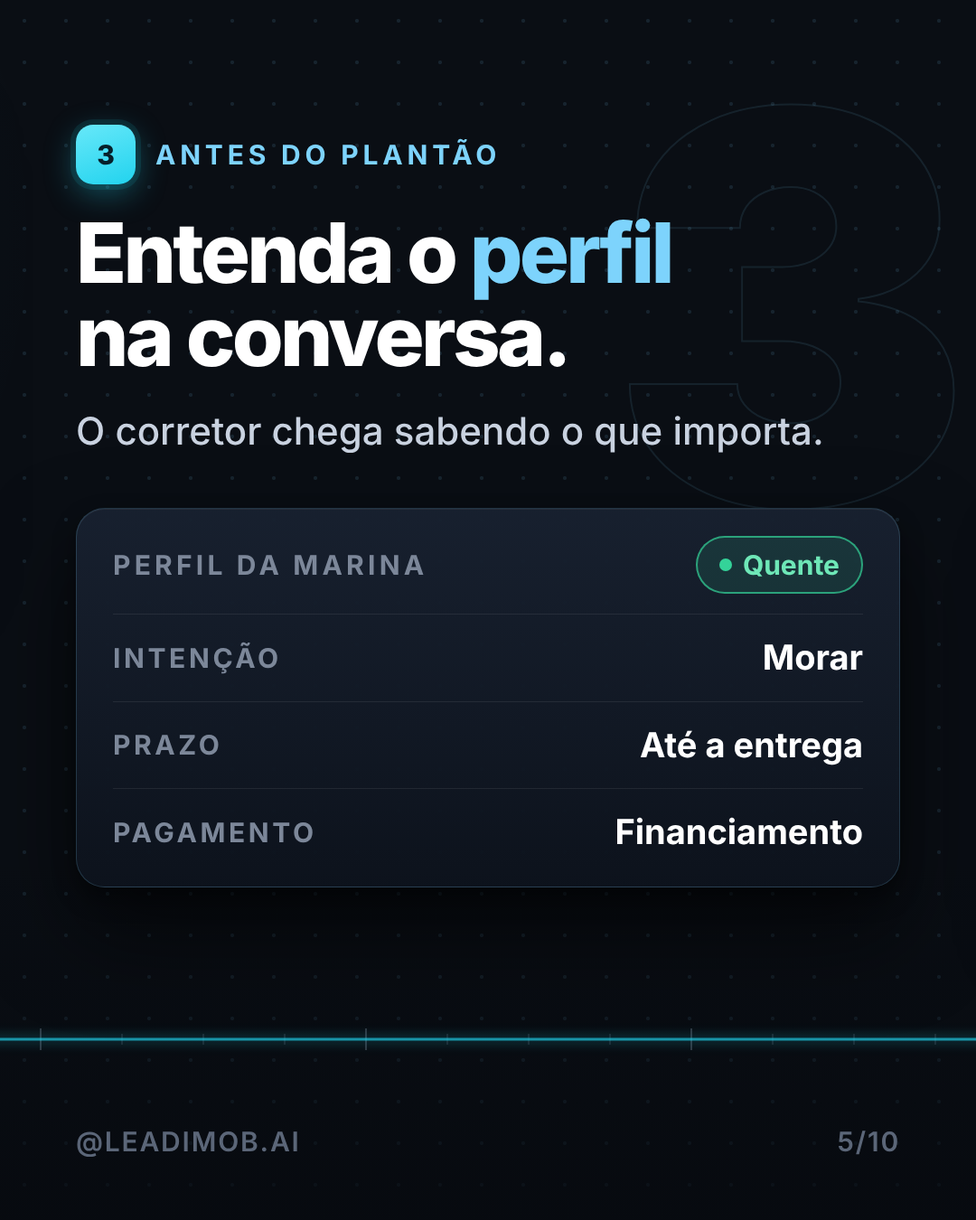
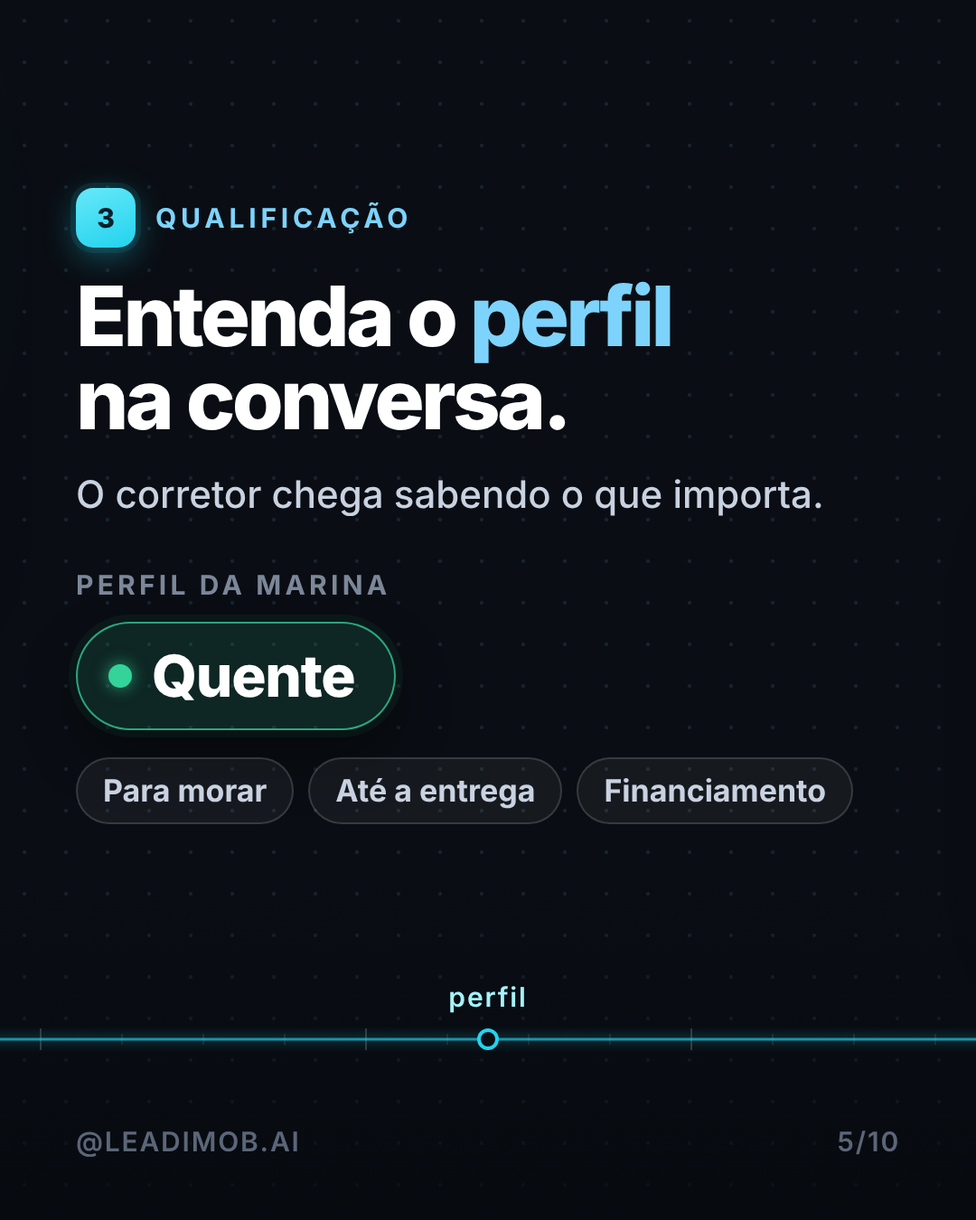
13/10: carrossel rodada 2 (em crítica, sem aprovação)
Claude-Session: https://claude.ai/code/session_01JjZ4VSMxvLW1vAoakARv9m

diff --git a/instagram/2026-10-13/src/c1-index.html b/instagram/2026-10-13/src/c1-index.html
@@ -76,6 +76,9 @@ body{background:#0A0E14;width:10800px;height:1350px;overflow:hidden;font-family:
 .lg:first-child{border-top:0}
 .lg .t{font:600 30px/1 IN;color:#6EE7B7;width:96px;flex:none}
 .tick{width:44px;height:44px;border-radius:50%;background:rgba(52,211,153,.14);border:2px solid rgba(52,211,153,.7);display:flex;align-items:center;justify-content:center;flex:none}
+.nd{position:absolute;left:-60px;top:50%;width:26px;height:26px;margin-top:-13px;border-radius:50%;background:#0A0E14;border:4px solid #22D3EE}
+.nd.g{border-color:#34D399;box-shadow:0 0 14px rgba(52,211,153,.5)}
+.ev2{position:relative;font:600 42px/1.15 IN;color:#E2E8F0;margin-bottom:26px}
 </style></head><body><div id="strip">
 <div class="bg"></div>
 <div class="glow" style="left:-420px;top:-480px;width:1600px;height:1500px;background:radial-gradient(circle,rgba(37,99,235,.30),transparent 62%)"></div>
@@ -105,7 +108,7 @@ body{background:#0A0E14;width:10800px;height:1350px;overflow:hidden;font-family:
 <!-- 2 o problema -->
 <div class="sl" style="left:1080px">
  <div class="ttl"><div class="num" style="background:linear-gradient(160deg,#3A4658,#2A3444);color:#E2E8F0;box-shadow:0 10px 30px rgba(0,0,0,.4)">!</div><div class="kick" style="color:#C9D2E0">O problema</div></div>
- <div class="h2">A pergunta da noite <span class="am">espera até amanhã.</span></div>
+ <div class="h2">A pergunta da noite espera até amanhã.</div>
  <div class="p">O anúncio roda o dia todo. O plantão tem horário.</div>
  <div class="card art" style="padding:38px 40px 40px">
   <div class="row"><div class="ico" style="background:rgba(255,255,255,.05);border-color:rgba(255,255,255,.14)"><svg width="38" height="38" viewBox="0 0 24 24" fill="none" stroke="#C9D2E0" stroke-width="2" stroke-linecap="round" stroke-linejoin="round"><path d="M4 21V9l8-5 8 5v12"/><path d="M9 21v-6h6v6"/></svg></div>
@@ -118,7 +121,6 @@ body{background:#0A0E14;width:10800px;height:1350px;overflow:hidden;font-family:
 
 <!-- 3 prática 1: origem -->
 <div class="sl" style="left:2160px">
- <div class="ghost">1</div>
  <div class="ttl"><div class="num">1</div><div class="kick">De onde ele veio</div></div>
  <div class="h2">Saiba de qual <span class="hl">lançamento</span> é o lead.</div>
  <div class="p">A resposta certa depende do anúncio.</div>
@@ -133,40 +135,51 @@ body{background:#0A0E14;width:10800px;height:1350px;overflow:hidden;font-family:
 <div class="sl" style="left:3240px">
  <div class="wa" style="padding:30px 34px">
   <div class="bub bout" style="max-width:820px;padding:12px 12px 14px;font-size:38px">
-   <div style="border-radius:16px;background:#F3F7FB;height:236px;width:796px;display:flex;align-items:center;justify-content:center">
-    <svg width="440" height="196" viewBox="0 0 560 250" fill="none" stroke="#0B5C73" stroke-width="5" stroke-linejoin="round">
-     <rect x="6" y="6" width="548" height="238" rx="4"/>
-     <path d="M190 6v120M190 166v78M360 6v96M360 142v102M190 126h-80M6 126h64M360 102h194"/>
-     <path d="M110 126a40 40 0 0 1 40-40" stroke-width="3" opacity=".6"/><path d="M360 102a40 40 0 0 0 40 40" stroke-width="3" opacity=".6"/>
-     <rect x="410" y="170" width="110" height="50" rx="6" stroke-width="3" opacity=".5"/><rect x="36" y="30" width="110" height="70" rx="6" stroke-width="3" opacity=".5"/><rect x="36" y="150" width="110" height="70" rx="6" stroke-width="3" opacity=".5"/>
+   <div style="border-radius:16px;background:#ECF6F9;width:796px;padding:18px 18px 14px;display:flex;justify-content:center">
+    <svg width="760" height="250" viewBox="0 0 760 250" fill="none" stroke-linecap="square">
+     <g stroke="#0B5C73" stroke-width="10">
+      <path d="M5 5H755V245H5Z"/>
+      <path d="M270 5V45M270 95V150M270 200V245"/>
+      <path d="M5 125H270"/>
+      <path d="M560 5V75M560 125V160M560 210V245"/>
+      <path d="M560 160H755"/>
+     </g>
+     <g stroke="#0B5C73" stroke-width="3" opacity=".75">
+      <path d="M270 45A50 50 0 0 0 220 95"/><path d="M270 150A50 50 0 0 0 220 200"/>
+      <path d="M560 75A50 50 0 0 1 610 125"/><path d="M560 160A50 50 0 0 1 610 210"/>
+     </g>
+     <g stroke="#ECF6F9" stroke-width="6"><path d="M60 5H200M60 245H200M340 245H490M340 5H490M620 5H710"/></g>
+     <g stroke="#0B5C73" stroke-width="2.5"><path d="M60 1H200M60 9H200M60 241H200M60 249H200M340 241H490M340 249H490M340 1H490M340 9H490M620 1H710M620 9H710"/></g>
+     <g fill="#0B5C73" font-family="IN" font-weight="600" font-size="30" text-anchor="middle" stroke="none">
+      <text x="137" y="76">Quarto</text><text x="137" y="196">Quarto</text><text x="415" y="136">Sala</text><text x="672" y="58">Cozinha</text><text x="660" y="214">WC</text>
+     </g>
     </svg>
    </div>
-   <div style="padding:16px 14px 0">Esta é a planta da unidade de 2 quartos. <span style="font-weight:600;color:#fff">Quer conhecer o decorado?</span></div>
-   <div class="bt" style="padding-right:14px;font-size:30px">22:41 <svg class="tk" viewBox="0 0 34 22"><path d="M2 12l6 6L20 4M14 18l12-14" stroke="#53BDEB" stroke-width="3" fill="none" stroke-linecap="round" stroke-linejoin="round"/></svg></div>
+   <div style="padding:16px 14px 0;font-size:35px;white-space:nowrap">Planta do 2 quartos. <span style="font-weight:600;color:#fff">Quer ver o decorado?</span></div>
+   <div class="bt" style="padding-right:14px;font-size:30px"><svg class="tk" viewBox="0 0 34 22"><path d="M2 12l6 6L20 4M14 18l12-14" stroke="#53BDEB" stroke-width="3" fill="none" stroke-linecap="round" stroke-linejoin="round"/></svg></div>
   </div>
  </div>
- <div class="ttl" style="margin-top:56px"><div class="num">2</div><div class="kick">Fora do horário</div></div>
+ <div class="ttl" style="margin-top:50px"><div class="num">2</div><div class="kick">Fora do horário</div></div>
  <div class="h2">Responda com a <span class="hl">planta do catálogo</span>.</div>
  <div class="p">Informação real, na hora da dúvida.</div>
  <div class="foot"><span>@LEADIMOB.AI</span><span>4/10</span></div></div>
 
 <!-- 5 prática 3: qualificação -->
 <div class="sl" style="left:4320px">
- <div class="ghost">3</div>
- <div class="ttl"><div class="num">3</div><div class="kick">Antes do plantão</div></div>
+ <div class="ttl"><div class="num">3</div><div class="kick">Qualificação</div></div>
  <div class="h2">Entenda o <span class="hl">perfil</span> na conversa.</div>
  <div class="p">O corretor chega sabendo o que importa.</div>
- <div class="card art" style="padding:30px 40px 12px">
-  <div style="display:flex;align-items:center;justify-content:space-between;margin-bottom:22px"><div class="lab">Perfil da Marina</div><span class="chip gr"><i style="width:14px;height:14px;border-radius:50%;background:#34D399;display:block"></i>Quente</span></div>
-  <div class="kv"><span class="k">Intenção</span><b>Morar</b></div>
-  <div class="kv"><span class="k">Prazo</span><b>Até a entrega</b></div>
-  <div class="kv"><span class="k">Pagamento</span><b>Financiamento</b></div>
+ <div class="art">
+  <div class="lab" style="margin-bottom:26px">Perfil da Marina</div>
+  <div style="display:inline-flex;align-items:center;gap:22px;padding:26px 44px 26px 34px;border-radius:999px;background:rgba(52,211,153,.12);border:2px solid rgba(52,211,153,.75);box-shadow:0 0 0 8px rgba(52,211,153,.06),0 30px 60px rgba(0,0,0,.45)"><i style="width:26px;height:26px;border-radius:50%;background:#34D399;display:block;box-shadow:0 0 18px rgba(52,211,153,.7)"></i><span style="font:800 64px/1 IN;letter-spacing:-.02em;color:#fff">Quente</span></div>
+  <div style="display:flex;flex-wrap:wrap;gap:16px;margin-top:30px">
+   <span class="chip nt" style="font-size:34px;padding:18px 28px">Para morar</span><span class="chip nt" style="font-size:34px;padding:18px 28px">Até a entrega</span><span class="chip nt" style="font-size:34px;padding:18px 28px">Financiamento</span>
+  </div>
  </div>
  <div class="foot"><span>@LEADIMOB.AI</span><span>5/10</span></div></div>
 
 <!-- 6 prática 4: agenda do plantão -->
 <div class="sl" style="left:5400px">
- <div class="ghost">4</div>
  <div class="ttl"><div class="num">4</div><div class="kick">Visita no plantão</div></div>
  <div class="h2">Ofereça o horário <span class="hl">na mesma conversa</span>.</div>
  <div class="p">Quem escolhe o horário já se comprometeu.</div>
@@ -193,74 +206,84 @@ body{background:#0A0E14;width:10800px;height:1350px;overflow:hidden;font-family:
  <div class="p">Ninguém pergunta tudo de novo.</div>
  <div class="foot"><span>@LEADIMOB.AI</span><span>7/10</span></div></div>
 
-<!-- 8 prática 6: funil por empreendimento + quem não veio -->
+<!-- 8 prática 6: quem não veio volta para o funil -->
 <div class="sl" style="left:7560px">
- <div class="ghost">6</div>
  <div class="ttl"><div class="num">6</div><div class="kick">Funil do lançamento</div></div>
  <div class="h2">Quem não veio <span class="hl">volta para o funil</span>.</div>
- <div class="p">Separe por empreendimento e retome cada um.</div>
- <div class="art" style="display:flex;gap:16px;align-items:center;margin-bottom:22px"><span class="lab">Empreendimento</span><span class="chip cy">Vista Parque</span></div>
+ <div class="p">Mova para o follow-up e ofereça uma nova data.</div>
+ <div class="art"><div class="lab" style="margin-bottom:22px">Outro lead do Vista Parque</div>
  <div style="display:flex;gap:22px;align-items:stretch">
-  <div class="col"><h4>Visita</h4><div class="kc" style="opacity:.75"><b>Lucas</b><span>Não veio no sábado</span></div></div>
+  <div class="col"><h4>Visita</h4><div class="kc" style="opacity:.8"><b>Lucas</b><span style="font-size:32px">Não veio no sábado</span></div></div>
   <div style="align-self:center;flex:none"><svg width="44" height="44" viewBox="0 0 24 24"><path d="M5 12h13M13 6l6 6-6 6" stroke="#6EE7B7" stroke-width="2.6" fill="none" stroke-linecap="round" stroke-linejoin="round"/></svg></div>
-  <div class="col" style="border-color:rgba(52,211,153,.35)"><h4 style="color:#6EE7B7">Follow-up</h4><div class="kc" style="border-color:rgba(52,211,153,.5)"><b>Lucas</b><span>Nova data enviada</span></div></div>
- </div>
+  <div class="col" style="border-color:rgba(52,211,153,.35)"><h4 style="color:#6EE7B7">Follow-up</h4><div class="kc" style="border-color:rgba(52,211,153,.5)"><b>Lucas</b><span style="font-size:32px">Nova data enviada</span></div></div>
+ </div></div>
  <div class="foot"><span>@LEADIMOB.AI</span><span>8/10</span></div></div>
 
-<!-- 9 Leadimob -->
+<!-- 9 Leadimob: a noite atendida -->
 <div class="sl" style="left:8640px">
- <div class="ttl"><div class="num"><svg width="34" height="34" viewBox="0 0 24 24"><path d="M12 3c5 0 9 3.600 9 8.200S17 19.500 12 19.500c-1 0-2-.15-2.900-.42L4.500 21l1.200-3.900C4 15.600 3 13.500 3 11.200 3 6.600 7 3 12 3z" fill="#06202A"/></svg></div><div class="kick">Onde a Leadimob entra</div></div>
+ <div class="ttl"><div class="num"><svg width="34" height="34" viewBox="0 0 24 24"><path d="M12 3c5 0 9 3.600 9 8.200S17 19.500 12 19.500c-1 0-2-.15-2.900-.42L4.500 21l1.200-3.900C4 15.600 3 13.500 3 11.200 3 6.600 7 3 12 3z" fill="#06202A"/></svg></div><div class="kick">A noite com a Leadimob</div></div>
  <div class="h2">A Leadimob atende <span style="color:#6EE7B7">quando o plantão fecha</span>.</div>
- <div class="p">E chama o corretor com o resumo pronto.</div>
- <div class="card art" style="padding:16px 40px">
-  <div class="lg"><span class="t">22:41</span>Responde com o catálogo</div>
-  <div class="lg"><span class="t">22:44</span>Qualifica o perfil</div>
-  <div class="lg"><span class="t">22:46</span>Agenda a visita</div>
-  <div class="lg"><span class="t">08:50</span>Avisa o corretor</div>
+ <div class="art" style="position:relative;padding-left:70px">
+  <div style="position:absolute;left:21px;top:20px;bottom:24px;width:3px;border-radius:2px;background:linear-gradient(180deg,rgba(34,211,238,.75),rgba(52,211,153,.85))"></div>
+  <div class="nt-row" style="position:relative;font:700 30px/1 IN;letter-spacing:.14em;color:#7C8799;margin-bottom:26px"><i class="nd" style="border-color:#22D3EE"></i>22:40 · NA MESMA NOITE</div>
+  <div class="ev2"><i class="nd"></i>Responde com o catálogo</div>
+  <div class="ev2"><i class="nd"></i>Qualifica o perfil</div>
+  <div class="ev2"><i class="nd"></i>Agenda a visita no plantão</div>
+  <div class="nt-row" style="position:relative;font:700 30px/1 IN;letter-spacing:.14em;color:#7C8799;margin:34px 0 26px"><i class="nd" style="border-color:#34D399"></i>08:50</div>
+  <div class="ev2" style="margin-bottom:0"><i class="nd g"></i>Chama o corretor com o resumo</div>
  </div>
  <div class="foot"><span>@LEADIMOB.AI</span><span>9/10</span></div></div>
 
-<!-- 10 CTA -->
+<!-- 10 CTA: a noite resolvida -->
 <div class="sl" style="left:9720px">
  <div class="ttl"><div class="num"><svg width="32" height="32" viewBox="0 0 24 24"><path d="M5 12.500l4.500 4.500L19 7" stroke="#06202A" stroke-width="3" fill="none" stroke-linecap="round" stroke-linejoin="round"/></svg></div><div class="kick">Sua vez</div></div>
- <div class="h2">Quem responde o seu lançamento <span class="hl">à noite?</span></div>
- <div style="margin-top:58px;height:132px;border-radius:66px;background:#141B28;border:2px solid rgba(125,211,252,.45);box-shadow:0 0 0 8px rgba(34,211,238,.06),0 30px 70px rgba(0,0,0,.55);display:flex;align-items:center;padding:0 22px 0 40px;gap:16px;font:600 44px IN">
-  <span style="color:#7C8799">Comente</span><span style="font-weight:900;letter-spacing:.02em">LANÇAMENTO</span><span style="width:4px;height:52px;background:#22D3EE;border-radius:2px"></span>
-  <span style="margin-left:auto;width:92px;height:92px;border-radius:50%;background:#2563EB;display:flex;align-items:center;justify-content:center;box-shadow:0 10px 30px rgba(37,99,235,.55)"><svg width="42" height="42" viewBox="0 0 24 24"><path d="M3 12 L21 3 L14 21 L11 13 Z" fill="#fff"/></svg></span>
+ <div class="h2">Quem atende o seu lançamento <span class="hl">à noite?</span></div>
+ <div class="art" style="position:relative;height:250px;margin-top:76px">
+  <div style="position:absolute;left:0;top:0;display:flex;align-items:center;gap:10px;font:600 30px/1 IN;letter-spacing:.06em;color:#C9D2E0"><svg width="28" height="28" viewBox="0 0 24 24" fill="none" stroke="#C9D2E0" stroke-width="2.200" stroke-linecap="round" stroke-linejoin="round"><path d="M20 14.500A8 8 0 1 1 9.500 4a6.500 6.500 0 0 0 10.500 10.500z"/></svg>18:00</div>
+  <div style="position:absolute;right:0;top:0;display:flex;align-items:center;gap:10px;font:600 30px/1 IN;letter-spacing:.06em;color:#E2E8F0"><svg width="28" height="28" viewBox="0 0 24 24" fill="none" stroke="#E2E8F0" stroke-width="2.200" stroke-linecap="round"><circle cx="12" cy="12" r="4"/><path d="M12 2v2M12 20v2M4.900 4.900l1.400 1.400M17.700 17.700l1.400 1.400M2 12h2M20 12h2M4.900 19.100l1.400-1.400M17.700 6.300l1.400-1.400"/></svg>09:00</div>
+  <div style="position:absolute;left:0;right:0;top:125px;height:3px;background:linear-gradient(90deg,#22D3EE,#34D399);border-radius:2px;box-shadow:0 0 14px rgba(52,211,153,.35)"></div>
+  <i style="position:absolute;left:-2px;top:115px;width:22px;height:22px;border-radius:50%;background:#0A0E14;border:4px solid #22D3EE"></i>
+  <i style="position:absolute;right:-2px;top:115px;width:22px;height:22px;border-radius:50%;background:#0A0E14;border:4px solid #34D399"></i>
+  <div style="position:absolute;left:70px;right:70px;top:60px;height:132px;border-radius:66px;background:#141B28;border:2px solid rgba(125,211,252,.45);box-shadow:0 0 0 10px #0A0E14,0 30px 70px rgba(0,0,0,.55);display:flex;align-items:center;padding:0 22px 0 40px;gap:16px;font:600 44px IN">
+   <span style="color:#7C8799">Comente</span><span style="font-weight:900;letter-spacing:.02em">LANÇAMENTO</span><span style="width:4px;height:52px;background:#22D3EE;border-radius:2px"></span>
+   <span style="margin-left:auto;width:92px;height:92px;border-radius:50%;background:#2563EB;display:flex;align-items:center;justify-content:center;box-shadow:0 10px 30px rgba(37,99,235,.55)"><svg width="42" height="42" viewBox="0 0 24 24"><path d="M3 12 L21 3 L14 21 L11 13 Z" fill="#fff"/></svg></span>
+  </div>
  </div>
- <div class="p" style="margin-top:34px">e conte como o seu time faz hoje.</div>
- <div style="margin-top:58px;display:flex;align-items:center;gap:26px">
+ <div class="p" style="margin-top:10px">e conte como o seu time faz hoje.</div>
+ <div style="margin-top:56px;display:flex;align-items:center;gap:26px">
   <div style="width:300px;height:96px;border-radius:22px;background:#F3F7FB;display:flex;align-items:center;justify-content:center;box-shadow:0 20px 44px rgba(0,0,0,.5);flex:none"><img src="logo.png" style="width:240px"></div>
   <div style="font:600 30px/1.3 IN;color:#7DD3FC">Solicite uma demonstração<br>link na bio</div>
  </div>
  <div class="foot"><span>@LEADIMOB.AI</span><span>10/10</span></div></div>
 </div>
 <script>
-// Régua da noite do plantão: uma linha do tempo fina atravessa o carrossel, das 18h (plantão fecha) às 9h (plantão abre).
-// Dia = faixa clara do plantão; noite = traço fino; tracejado âmbar só no slide 2 (sem resposta); ciano quando a noite passa a ser atendida; verde na Leadimob.
+// Régua da noite do plantão: das 18h (plantão fecha) às 9h (plantão abre), atravessando o carrossel.
+// Faixa clara = plantão aberto; tracejado = noite sem resposta (ponto âmbar no slide 2); degradê para ciano a partir do 22:40;
+// ciano = a noite atendida, com um marcador (ponto + rótulo curto) por prática; verde na Leadimob; ponto final no 10.
 (function(){
  const Y=1150, S=document.getElementById('ruler'), M=document.getElementById('marks'), ns='http://www.w3.org/2000/svg';
  const el=(t,a)=>{const e=document.createElementNS(ns,t);for(const k in a)e.setAttribute(k,a[k]);S.appendChild(e);return e};
  S.innerHTML='<defs><linearGradient id="gS" x1="0" x2="760" gradientUnits="userSpaceOnUse"><stop offset="0" stop-color="#E2E8F0" stop-opacity="0"/><stop offset=".4" stop-color="#E2E8F0" stop-opacity=".45"/><stop offset="1" stop-color="#E2E8F0" stop-opacity=".45"/></linearGradient>'+
- '<linearGradient id="gE" x1="8100" x2="10800" gradientUnits="userSpaceOnUse"><stop offset="0" stop-color="#22D3EE" stop-opacity=".7"/><stop offset=".25" stop-color="#34D399" stop-opacity=".75"/><stop offset=".85" stop-color="#34D399" stop-opacity=".3"/><stop offset="1" stop-color="#34D399" stop-opacity="0"/></linearGradient></defs>';
- // ticks de hora, discretos
- for(let x=45;x<10800;x+=90){const big=(x-45)%360===0;el('line',{x1:x,x2:x,y1:Y-(big?12:6),y2:Y+(big?12:6),stroke:'#7C8799','stroke-opacity':big?.35:.18,'stroke-width':2})}
- // capa: faixa do plantão aberto até 18h
+ '<linearGradient id="gT" x1="1620" x2="2300" gradientUnits="userSpaceOnUse"><stop offset="0" stop-color="#5B6678" stop-opacity=".9"/><stop offset="1" stop-color="#22D3EE" stop-opacity=".65"/></linearGradient>'+
+ '<linearGradient id="gT2" x1="1620" x2="2300" gradientUnits="userSpaceOnUse"><stop offset="0" stop-color="#22D3EE" stop-opacity="0"/><stop offset="1" stop-color="#22D3EE" stop-opacity=".16"/></linearGradient>'+
+ '<linearGradient id="gE" x1="8100" x2="9000" gradientUnits="userSpaceOnUse"><stop offset="0" stop-color="#22D3EE" stop-opacity=".65"/><stop offset="1" stop-color="#34D399" stop-opacity=".7"/></linearGradient></defs>';
+ for(let x=45;x<10260;x+=90){const big=(x-45)%360===0;el('line',{x1:x,x2:x,y1:Y-(big?12:6),y2:Y+(big?12:6),stroke:'#7C8799','stroke-opacity':big?.35:.18,'stroke-width':2})}
  el('rect',{x:0,y:Y-4,width:760,height:8,rx:4,fill:'url(#gS)'});
- // capa→slide 2: noite sem resposta (tracejado)
- el('path',{d:`M 760 ${Y} L 2160 ${Y}`,stroke:'#5B6678','stroke-width':3,'stroke-dasharray':'2 16','stroke-linecap':'round',fill:'none'});
- // slides 3-8: a noite atendida (ciano fino)
- el('path',{d:`M 2160 ${Y} L 8100 ${Y}`,stroke:'#22D3EE','stroke-opacity':.65,'stroke-width':3,fill:'none'});
- el('path',{d:`M 2160 ${Y} L 8100 ${Y}`,stroke:'#22D3EE','stroke-opacity':.16,'stroke-width':12,fill:'none',filter:'blur(6px)'});
- // slide 7: plantão abre às 9h, a faixa clara volta por cima
- el('rect',{x:7020,y:Y-4,width:3780,height:8,rx:4,fill:'#E2E8F0','fill-opacity':.28});
- el('path',{d:`M 8100 ${Y} L 10800 ${Y}`,stroke:'url(#gE)','stroke-width':3,fill:'none'});
- const dot=(x,c)=>el('circle',{cx:x,cy:Y,r:11,fill:'#0A0E14',stroke:c,'stroke-width':4});
- dot(760,'#C9D2E0'); dot(1620,'#F59E0B'); dot(7020,'#C9D2E0');
+ el('path',{d:`M 760 ${Y} L 1620 ${Y}`,stroke:'#5B6678','stroke-width':3,'stroke-dasharray':'2 16','stroke-linecap':'round',fill:'none'});
+ el('path',{d:`M 1620 ${Y} L 2300 ${Y}`,stroke:'url(#gT)','stroke-width':3,fill:'none'});
+ el('path',{d:`M 1620 ${Y} L 2300 ${Y}`,stroke:'url(#gT2)','stroke-width':12,fill:'none',filter:'blur(6px)'});
+ el('path',{d:`M 2300 ${Y} L 8100 ${Y}`,stroke:'#22D3EE','stroke-opacity':.65,'stroke-width':3,fill:'none'});
+ el('path',{d:`M 2300 ${Y} L 8100 ${Y}`,stroke:'#22D3EE','stroke-opacity':.16,'stroke-width':12,fill:'none',filter:'blur(6px)'});
+ el('path',{d:`M 8100 ${Y} L 10260 ${Y}`,stroke:'url(#gE)','stroke-width':3,fill:'none'});
+ const dot=(x,c,r)=>el('circle',{cx:x,cy:Y,r:r||10,fill:'#0A0E14',stroke:c,'stroke-width':4});
  const lab=(x,txt,c,ic)=>M.insertAdjacentHTML('beforeend',`<div style="position:absolute;left:${x}px;top:${Y-62}px;transform:translateX(-50%);display:flex;align-items:center;gap:10px;font:600 30px/1 IN;letter-spacing:.06em;color:${c};white-space:nowrap">${ic||''}${txt}</div>`);
  const moon='<svg width="28" height="28" viewBox="0 0 24 24" fill="none" stroke="#C9D2E0" stroke-width="2.2" stroke-linecap="round" stroke-linejoin="round"><path d="M20 14.500A8 8 0 1 1 9.500 4a6.500 6.500 0 0 0 10.500 10.500z"/></svg>';
- const sun='<svg width="28" height="28" viewBox="0 0 24 24" fill="none" stroke="#E2E8F0" stroke-width="2.2" stroke-linecap="round"><circle cx="12" cy="12" r="4"/><path d="M12 2v2M12 20v2M4.900 4.900l1.400 1.400M17.700 17.700l1.400 1.400M2 12h2M20 12h2M4.900 19.100l1.400-1.400M17.700 6.300l1.400-1.400"/></svg>';
- lab(760,'18:00','#C9D2E0',moon); lab(1620,'22:40','#FBBF24'); lab(7020,'09:00','#E2E8F0',sun);
+ dot(760,'#C9D2E0'); lab(760,'18:00','#C9D2E0',moon);
+ dot(1620,'#F59E0B',9);
+ const C='#A5F3FC', mk=[[2,'22:40 · lead novo'],[3,'planta enviada'],[4,'perfil'],[5,'visita marcada'],[6,'08:50 · corretor avisado']];
+ mk.forEach(([i,t])=>{const x=i*1080+540;dot(x,'#22D3EE');lab(x,t,C)});
+ dot(7*1080+540,'#34D399'); dot(8*1080+540,'#34D399');
+ el('circle',{cx:10260,cy:Y,r:13,fill:'#34D399'});
 })();
 window.ready=document.fonts.ready.then(()=>Promise.all(['400 20px IN','500 20px IN','600 20px IN','700 20px IN','800 20px IN','900 20px IN'].map(f=>document.fonts.load(f)))).then(()=>Promise.all([...document.images].map(i=>i.decode().catch(()=>0)))).then(()=>new Promise(r=>setTimeout(r,300)));
 </script></body></html>

diff --git a/instagram/2026-10-13/carrossel/carrossel-editor.html b/instagram/2026-10-13/carrossel/carrossel-editor.html
@@ -312,7 +312,7 @@ input[type=range]{width:100%;accent-color:#6C5CE7;height:18px;cursor:pointer;}
     </div>
   </div>
 </div>
-<script id="deck-data" type="application/json">{"kit": "tech", "formato": "4:5", "paleta": {"bg": "#0A0E14", "fg": "#FFFFFF", "muted": "#8A93A3", "accent": "#22D3EE", "surface": "#141B28", "cream": "#F3F7FB"}, "handle": "@leadimob.ai", "slides": [{"tipo": "capa", "kicker": "LANÇAMENTO · SALVE ESTE POST", "titulo": "O plantão fecha. O anúncio, não.", "sub": "Como não perder o lead do lançamento que chega à noite."}, {"tipo": "conteudo", "kicker": "O PROBLEMA", "titulo": "A pergunta da noite espera até amanhã.", "sub": "O anúncio roda o dia todo. O plantão tem horário."}, {"tipo": "conteudo", "kicker": "1 · DE ONDE ELE VEIO", "titulo": "Saiba de qual lançamento é o lead.", "sub": "A resposta certa depende do anúncio."}, {"tipo": "conteudo", "kicker": "2 · FORA DO HORÁRIO", "titulo": "Responda com a planta do catálogo.", "sub": "Informação real, na hora da dúvida."}, {"tipo": "conteudo", "kicker": "3 · ANTES DO PLANTÃO", "titulo": "Entenda o perfil na conversa.", "sub": "O corretor chega sabendo o que importa."}, {"tipo": "conteudo", "kicker": "4 · VISITA NO PLANTÃO", "titulo": "Ofereça o horário na mesma conversa.", "sub": "Quem escolhe o horário já se comprometeu."}, {"tipo": "conteudo", "kicker": "5 · PARA O CORRETOR", "titulo": "Passe o resumo para quem está no plantão.", "sub": "Ninguém pergunta tudo de novo."}, {"tipo": "conteudo", "kicker": "6 · FUNIL DO LANÇAMENTO", "titulo": "Quem não veio volta para o funil.", "sub": "Separe por empreendimento e retome cada um."}, {"tipo": "conteudo", "kicker": "ONDE A LEADIMOB ENTRA", "titulo": "A Leadimob atende quando o plantão fecha.", "sub": "E chama o corretor com o resumo pronto."}, {"tipo": "cta", "kicker": "SUA VEZ", "titulo": "Quem responde o seu lançamento à noite?", "sub": "Comente LANÇAMENTO e conte como o seu time faz hoje. Solicite uma demonstração — link na bio."}]}</script>
+<script id="deck-data" type="application/json">{"kit": "tech", "formato": "4:5", "paleta": {"bg": "#0A0E14", "fg": "#FFFFFF", "muted": "#8A93A3", "accent": "#22D3EE", "surface": "#141B28", "cream": "#F3F7FB"}, "handle": "@leadimob.ai", "slides": [{"tipo": "capa", "kicker": "LANÇAMENTO · SALVE ESTE POST", "titulo": "O plantão fecha. O anúncio, não.", "sub": "Como não perder o lead do lançamento que chega à noite."}, {"tipo": "conteudo", "kicker": "O PROBLEMA", "titulo": "A pergunta da noite espera até amanhã.", "sub": "O anúncio roda o dia todo. O plantão tem horário."}, {"tipo": "conteudo", "kicker": "1 · DE ONDE ELE VEIO", "titulo": "Saiba de qual lançamento é o lead.", "sub": "A resposta certa depende do anúncio."}, {"tipo": "conteudo", "kicker": "2 · FORA DO HORÁRIO", "titulo": "Responda com a planta do catálogo.", "sub": "Informação real, na hora da dúvida."}, {"tipo": "conteudo", "kicker": "3 · QUALIFICAÇÃO", "titulo": "Entenda o perfil na conversa.", "sub": "O corretor chega sabendo o que importa."}, {"tipo": "conteudo", "kicker": "4 · VISITA NO PLANTÃO", "titulo": "Ofereça o horário na mesma conversa.", "sub": "Quem escolhe o horário já se comprometeu."}, {"tipo": "conteudo", "kicker": "5 · PARA O CORRETOR", "titulo": "Passe o resumo para quem está no plantão.", "sub": "Ninguém pergunta tudo de novo."}, {"tipo": "conteudo", "kicker": "6 · FUNIL DO LANÇAMENTO", "titulo": "Quem não veio volta para o funil.", "sub": "Mova para o follow-up e ofereça uma nova data."}, {"tipo": "conteudo", "kicker": "A NOITE COM A LEADIMOB", "titulo": "A Leadimob atende quando o plantão fecha.", "sub": "Na mesma noite: responde com o catálogo, qualifica o perfil e agenda a visita no plantão. Às 08:50, chama o corretor com o resumo."}, {"tipo": "cta", "kicker": "SUA VEZ", "titulo": "Quem atende o seu lançamento à noite?", "sub": "Comente LANÇAMENTO e conte como o seu time faz hoje. Solicite uma demonstração — link na bio."}]}</script>
 <script>
 const KITS = {
   "editorial":     {disp:"Anton", body:"Inter", mono:"JetBrains Mono", serif:"Instrument Serif",
